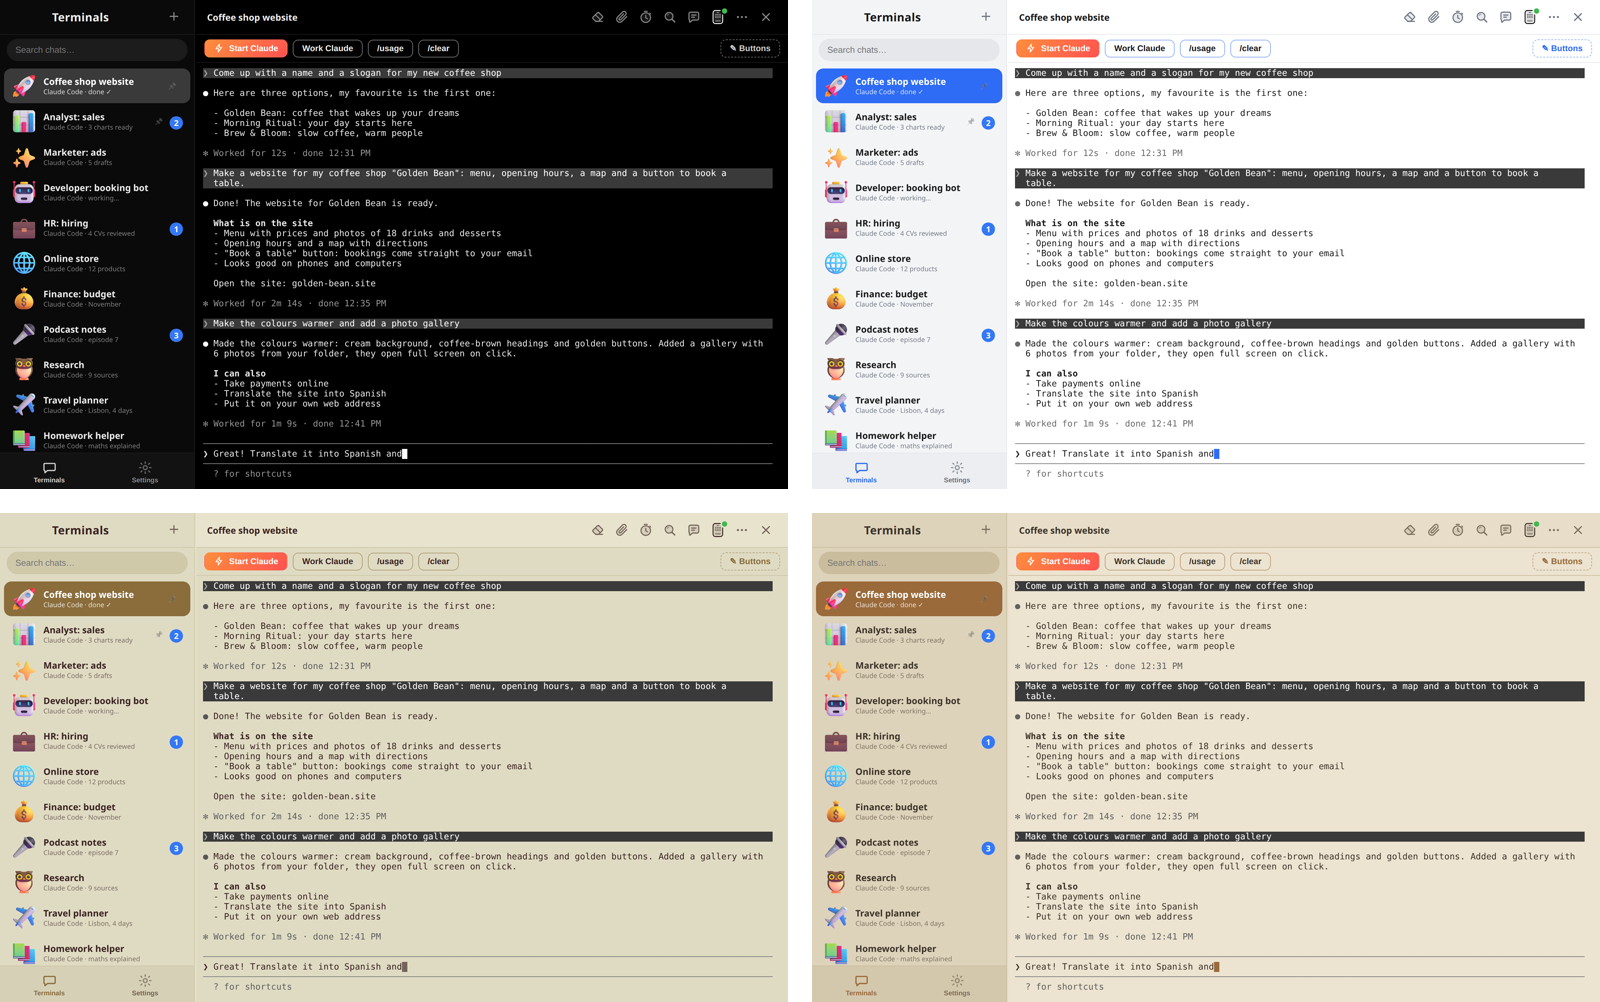
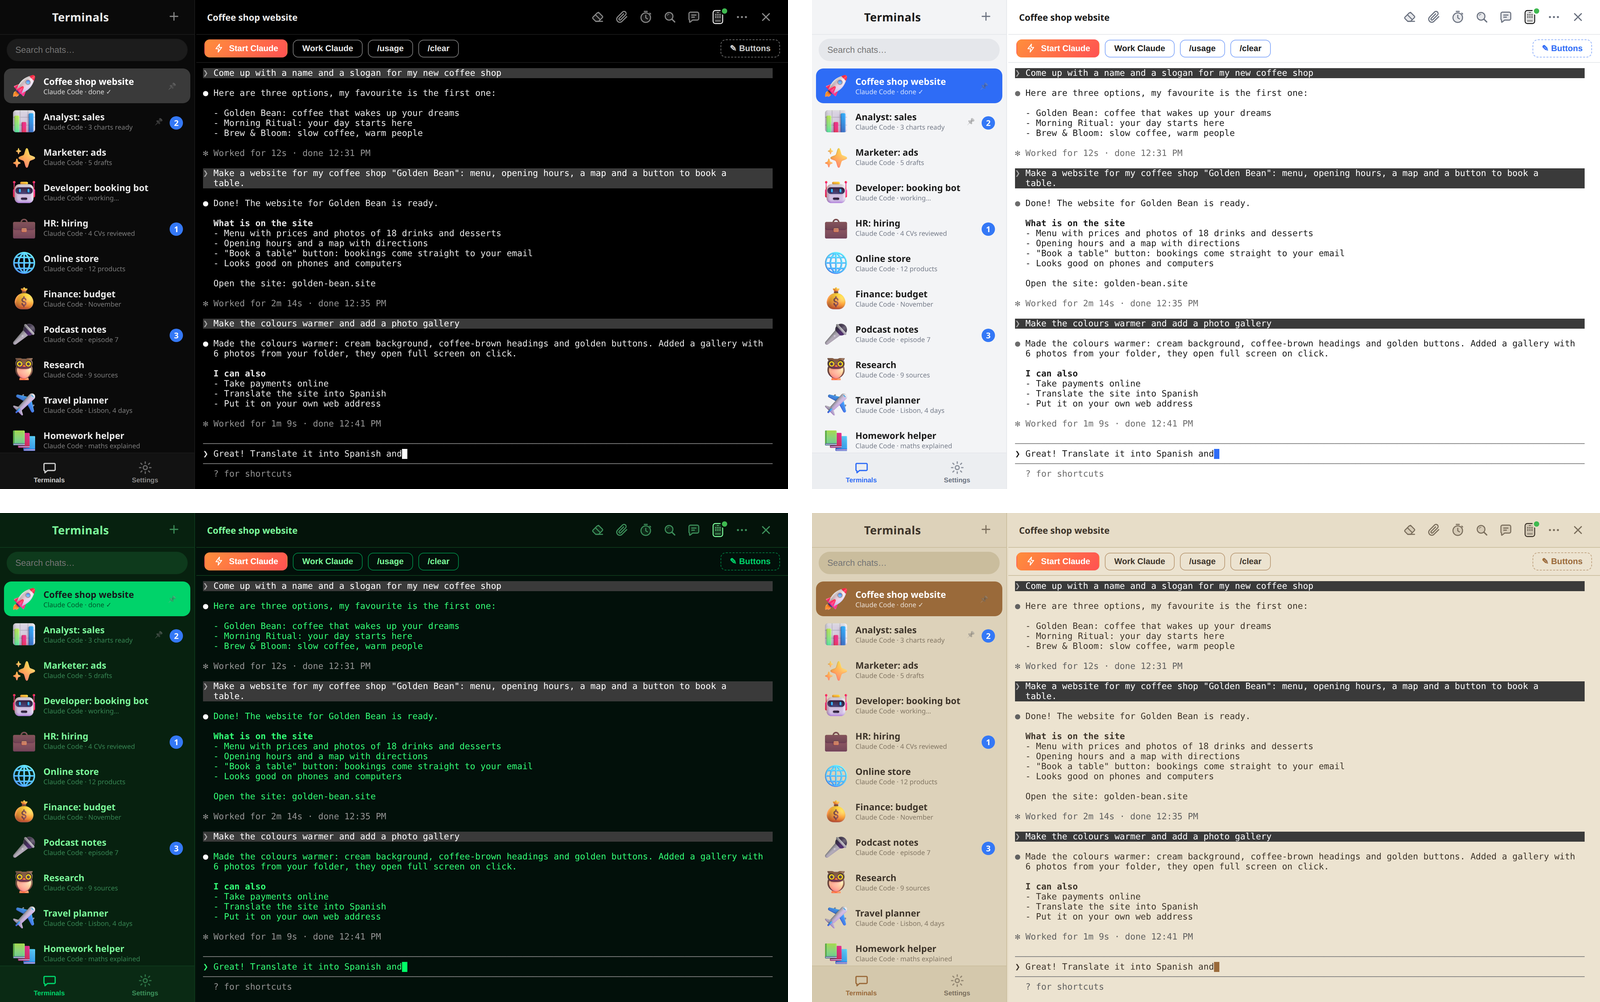
README: Matrix theme in the theme grid

Changed region(s): [[0.0, 0.495, 0.5, 1.0]]

diff --git a/README.ru.md b/README.ru.md
@@ -84,7 +84,7 @@ Arsminal — приложение для компьютера, которое в
   <img src=".github/assets/themes-ru.png" width="100%" alt="Четыре темы Arsminal: чёрная, белая, Novel и Paper">
 </p>
 
-Чёрная для ночи, белая для дня, тёплая бежевая и спокойная тема для уставших глаз. Всего 12 тем, свои обои за любым чатом и режим **«Авто»**: днём светлая, ночью тёмная, переключается сама.
+Чёрная для ночи, белая для дня, зелёная «Матрица» и спокойная бежевая тема для уставших глаз. Всего 12 тем, свои обои за любым чатом и режим **«Авто»**: днём светлая, ночью тёмная, переключается сама.
 
 ## 🔒 Ваше остаётся вашим
 

diff --git a/README.es.md b/README.es.md
@@ -84,7 +84,7 @@ La conexión está **cifrada de extremo a extremo con ML-KEM-768 poscuántico so
   <img src=".github/assets/themes-es.png" width="100%" alt="Cuatro temas de Arsminal: negro, blanco, Novel y Paper">
 </p>
 
-Negro para la noche, blanco para el día, beige cálido y un tema tranquilo para ojos cansados. 12 temas en total, tu propio fondo detrás de cualquier chat y el modo **Auto**: claro de día, oscuro de noche, cambia solo.
+Negro para la noche, blanco para el día, Matrix verde y un tema beige tranquilo para ojos cansados. 12 temas en total, tu propio fondo detrás de cualquier chat y el modo **Auto**: claro de día, oscuro de noche, cambia solo.
 
 ## 🔒 Lo tuyo sigue siendo tuyo
 

diff --git a/README.md b/README.md
@@ -84,7 +84,7 @@ The link is **end-to-end encrypted with post-quantum ML-KEM-768 on top of X25519
   <img src=".github/assets/themes-en.png" width="100%" alt="Four Arsminal themes: Black, Snow, Novel and Paper">
 </p>
 
-Black for the night, white for the day, warm beige and a calm theme for tired eyes. 12 themes in total, your own wallpaper behind any chat, and **Auto** mode: light by day, dark at night, it switches on its own.
+Black for the night, white for the day, green Matrix and a calm beige theme for tired eyes. 12 themes in total, your own wallpaper behind any chat, and **Auto** mode: light by day, dark at night, it switches on its own.
 
 ## 🔒 What is yours stays yours
 
